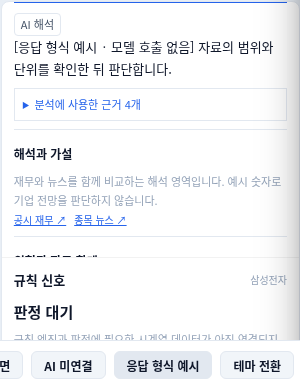
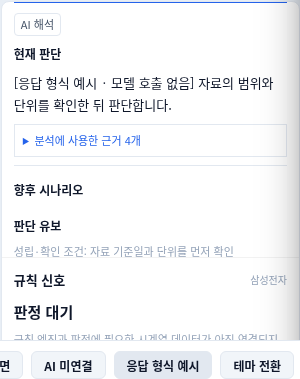
feat(ai): 실행 조건과 무효화 조건을 갖춘 시나리오·대응 계획 추가

Changed region(s): [[0.03, 0.0871, 0.96, 0.4354], [0.03, 0.4644, 0.93, 0.6966], [0.39, 0.6385, 0.78, 0.6966]]

diff --git a/docs/design/data-research-ai/preview.html b/docs/design/data-research-ai/preview.html
@@ -15369,14 +15369,20 @@ function wlAssignGroup(idx, gName) {
   '일·주·월·년 지표를 섞지 않는다. 마지막 봉 미완성·이력 부족·가격 조정 미확인을 고려한다.',
   '계획은 관망·관찰·추가 검토·매매 계획 작성 등의 선택지로 제시한다. 각 선택지에 이유·위험·재검토 조건을 붙인다. 실제 매매 지시나 확정 계획으로 기록하지 않는다.',
   '사용자의 선택·자기평가·감정·행동을 지어내지 않는다. 빠진 거시지표·보유비중·투자일지는 없다고 명시하고 부분 점검임을 밝힌다.',
-  '모든 해석·위험·선택지의 evidenceIds는 실제 받은 자료 ID만 참조한다. 한국어로 간결하게 답한다.'
+  '현황 요약에서 끝내지 말고 현재 판단 → 향후 시나리오 → 대응 계획 → 실행 조건 → 판단 무효화와 재검토 순서로 답한다. 관찰하자 같은 말만으로 대응 계획을 대신하지 않는다.',
+  '가격 방향을 검토할 근거가 충분하면 상승(upside)·횡보(base)·하락(downside) 시나리오를 각각 제시한다. 각 시나리오에 관측 가능한 성립 조건(condition), 전망(outlook), 무효화 조건(invalidation), evidenceIds를 붙인다. 근거가 부족하거나 가격 전망과 무관한 원칙 복기라면 unassessed 하나로 판단 유보 이유와 필요한 자료를 밝힌다.',
+  '대응 계획은 대상(audience: holder 보유자, nonholder 미보유자, both 공통), 구체적인 대응(action), 실행 조건(trigger), 이유(reason), 위험(risk), 판단 무효화 조건(invalidation), 재검토 시점·조건(reviewWhen)을 갖춘다. 실제 보유 여부를 모르면 두 입장을 조건부로 구분하고 비중·평단·손실 한도를 가정하지 않는다.',
+  '목표가·확률·가격선·거래량 임계값을 근거 없이 생성하지 않는다. 받은 자료나 앱의 확정 계산으로 설명할 수 없는 숫자는 만들지 말고, 공시 확인·단위 대조 등 관측 가능한 조건을 제시한다. 실행 조건이 불충분하면 그 이유와 확인 후 재검토할 일을 명시한다. 복기 패턴에서는 다음 기록·원칙 점검 행동을 제시한다.',
+  '모든 시나리오·해석·위험·선택지의 evidenceIds는 실제 받은 자료 ID만 참조한다. 한국어로 간결하게 답한다.'
  ];
  const evidenceIds={type:'array',items:{type:'string'},minItems:1,maxItems:6};
- const supported={type:'object',additionalProperties:false,required:['text','evidenceIds'],properties:{text:{type:'string',maxLength:1600},evidenceIds}};
- const schema={type:'object',additionalProperties:false,required:['summary','interpretations','risks','options','missing','questions'],properties:{
-  summary:{type:'string',maxLength:2000},interpretations:{type:'array',items:supported,maxItems:8},risks:{type:'array',items:supported,maxItems:8},
-  options:{type:'array',minItems:1,maxItems:4,items:{type:'object',additionalProperties:false,required:['title','reason','risk','reviewWhen','evidenceIds'],properties:{title:{type:'string',maxLength:100},reason:{type:'string',maxLength:1000},risk:{type:'string',maxLength:1000},reviewWhen:{type:'string',maxLength:1000},evidenceIds}}},
-  missing:{type:'array',items:{type:'string',maxLength:300},maxItems:30},questions:{type:'array',items:{type:'string',maxLength:500},maxItems:8}
+ const supported={type:'object',additionalProperties:false,required:['text','evidenceIds'],properties:{text:{type:'string',minLength:1,maxLength:1600},evidenceIds}};
+ const schema={type:'object',additionalProperties:false,required:['summary','scenarios','interpretations','risks','options','missing','questions'],properties:{
+  summary:{type:'string',minLength:1,maxLength:2000},
+  scenarios:{type:'array',minItems:1,maxItems:3,items:{type:'object',additionalProperties:false,required:['kind','condition','outlook','invalidation','evidenceIds'],properties:{kind:{type:'string',enum:['upside','base','downside','unassessed']},condition:{type:'string',minLength:1,maxLength:1000},outlook:{type:'string',minLength:1,maxLength:1600},invalidation:{type:'string',minLength:1,maxLength:1000},evidenceIds}}},
+  interpretations:{type:'array',items:supported,maxItems:8},risks:{type:'array',items:supported,maxItems:8},
+  options:{type:'array',minItems:1,maxItems:4,items:{type:'object',additionalProperties:false,required:['title','audience','action','trigger','reason','risk','invalidation','reviewWhen','evidenceIds'],properties:{audience:{type:'string',enum:['holder','nonholder','both']},action:{type:'string',minLength:1,maxLength:1000},trigger:{type:'string',minLength:1,maxLength:1000},invalidation:{type:'string',minLength:1,maxLength:1000},title:{type:'string',minLength:1,maxLength:100},reason:{type:'string',minLength:1,maxLength:1000},risk:{type:'string',minLength:1,maxLength:1000},reviewWhen:{type:'string',minLength:1,maxLength:1000},evidenceIds}}},
+  missing:{type:'array',items:{type:'string',minLength:1,maxLength:300},maxItems:30},questions:{type:'array',items:{type:'string',minLength:1,maxLength:500},maxItems:8}
  }};
  function prompt(bundle,pattern='stock'){
   if(!Object.hasOwn(patterns,pattern))throw Error('분석 패턴을 확인하세요.');
@@ -15384,14 +15390,18 @@ function wlAssignGroup(idx, gName) {
  }
  function validate(result,bundle){
   if(!result||typeof result!=='object'||Array.isArray(result)||Object.keys(result).some(k=>!Object.hasOwn(schema.properties,k)))throw Error('AI 결과 형식 오류');
-  const str=(v,max)=>typeof v==='string'&amp;&amp;v.length<=max;
+  const str=(v,max)=>typeof v==='string'&amp;&amp;v.trim().length>0&amp;&amp;v.length<=max;
   if(!str(result.summary,2000)||!Array.isArray(result.options)||result.options.length<1||result.options.length>4)throw Error('AI 요약·선택지 형식 오류');
   const allowed=new Set(bundle.evidence.filter(e=>e.status==='received').map(e=>e.id));
   function refs(v){return Array.isArray(v)&amp;&amp;v.length>=1&amp;&amp;v.length<=6&amp;&amp;v.every(id=>allowed.has(id));}
+  if(!Array.isArray(result.scenarios)||result.scenarios.length<1||result.scenarios.length>3)throw Error('AI 시나리오 형식 오류');
+  const kinds=result.scenarios.map(x=>x?.kind);
+  if(!(kinds.length===1&amp;&amp;kinds[0]==='unassessed')&amp;&amp;!(kinds.length===3&amp;&amp;new Set(kinds).size===3&amp;&amp;['upside','base','downside'].every(k=>kinds.includes(k))))throw Error('AI 시나리오 구성 오류');
+  for(const x of result.scenarios)if(!x||Object.keys(x).some(k=>!['kind','condition','outlook','invalidation','evidenceIds'].includes(k))||!str(x.condition,1000)||!str(x.outlook,1600)||!str(x.invalidation,1000)||!refs(x.evidenceIds))throw Error('AI 시나리오 근거 오류');
   for(const key of ['interpretations','risks']){
    if(!Array.isArray(result[key])||result[key].length>8||result[key].some(x=>!x||Object.keys(x).some(k=>!['text','evidenceIds'].includes(k))||!str(x.text,1600)||!refs(x.evidenceIds)))throw Error('AI 근거 참조 오류');
   }
-  for(const x of result.options)if(!x||Object.keys(x).some(k=>!['title','reason','risk','reviewWhen','evidenceIds'].includes(k))||!str(x.title,100)||!str(x.reason,1000)||!str(x.risk,1000)||!str(x.reviewWhen,1000)||!refs(x.evidenceIds))throw Error('AI 선택지 근거 오류');
+  for(const x of result.options)if(!x||Object.keys(x).some(k=>!['title','audience','action','trigger','reason','risk','invalidation','reviewWhen','evidenceIds'].includes(k))||!['holder','nonholder','both'].includes(x.audience)||!str(x.action,1000)||!str(x.trigger,1000)||!str(x.invalidation,1000)||!str(x.title,100)||!str(x.reason,1000)||!str(x.risk,1000)||!str(x.reviewWhen,1000)||!refs(x.evidenceIds))throw Error('AI 선택지 근거 오류');
   for(const [key,max,n] of [['missing',300,30],['questions',500,8]])if(!Array.isArray(result[key])||result[key].length>n||result[key].some(x=>!str(x,max)))throw Error('AI 누락·질문 형식 오류');
   return result;
  }
@@ -15447,12 +15457,14 @@ function wlAssignGroup(idx, gName) {
  function renderResult(value){
   const host=document.getElementById('sbAIResult');if(!host)return;host.replaceChildren();
   if(!value){const empty=el('div',undefined,'sb-ai-empty');empty.append(el('strong','근거를 확인하고 해석을 검토합니다.'),el('p','자료 수집 → 기업 리서치 → AI 분석 → 사용자 판단 기록'),el('small','모델을 실행하지 않은 상태입니다. 연결 확인이나 화면 열기만으로 분석을 요청하지 않습니다.'));host.append(empty);return;}
-  const intro=el('section',undefined,'sb-ai-summary');intro.append(badge('AI 해석'),el('p',value.result.summary));host.append(intro);
+  const intro=el('section',undefined,'sb-ai-summary');intro.append(badge('AI 해석'),el('h4','현재 판단'),el('p',value.result.summary));host.append(intro);
   const facts=el('details',undefined,'sb-ai-evidence');facts.append(el('summary','분석에 사용한 근거 '+value.bundle.evidence.length+'개'));
   for(const source of value.bundle.evidence){const row=el('div');row.append(link(source.title+' ↗',source.url),el('span','기준 '+stamp(source.asOf)));facts.append(row);}host.append(facts);
+  const scenarios=el('section',undefined,'sb-ai-result-section');scenarios.append(el('h4','향후 시나리오'));
+  for(const scenario of value.result.scenarios){const article=el('article');article.append(el('strong',({upside:'상승 시나리오',base:'횡보 시나리오',downside:'하락 시나리오',unassessed:'판단 유보'})[scenario.kind]));for(const [label,key]of [['성립·확인 조건','condition'],['전망','outlook'],['판단 무효화 조건','invalidation']])article.append(el('p',label+': '+scenario[key]));refs(article,scenario.evidenceIds,value.bundle);scenarios.append(article);}host.append(scenarios);
   for(const [key,title]of [['interpretations','해석과 가설'],['risks','위험과 자료 한계']]){const section=el('section',undefined,'sb-ai-result-section');section.append(el('h4',title));for(const entry of value.result[key]){section.append(el('p',entry.text));refs(section,entry.evidenceIds,value.bundle);}host.append(section);}
-  const options=el('section',undefined,'sb-ai-result-section');options.append(el('h4','검토할 선택지'),el('p','투자 판단과 매매 결정은 사용자가 합니다.','sb-data-note'));
-  for(const option of value.result.options){const article=el('article');article.append(el('strong',option.title));for(const [label,key]of [['이유','reason'],['위험','risk'],['다시 확인할 조건','reviewWhen']])article.append(el('p',label+': '+option[key]));refs(article,option.evidenceIds,value.bundle);options.append(article);}host.append(options);
+  const options=el('section',undefined,'sb-ai-result-section');options.append(el('h4','앞으로의 대응 계획'),el('p','투자 판단과 매매 결정은 사용자가 합니다.','sb-data-note'));
+  for(const option of value.result.options){const article=el('article');article.append(el('strong',option.title),badge(({holder:'보유자',nonholder:'미보유자',both:'공통'})[option.audience]));for(const [label,key]of [['대응','action'],['실행 조건','trigger'],['이유','reason'],['위험','risk'],['판단 무효화 조건','invalidation'],['다시 확인할 조건','reviewWhen']])article.append(el('p',label+': '+option[key]));refs(article,option.evidenceIds,value.bundle);options.append(article);}host.append(options);
   if(value.result.missing.length)host.append(el('p','미수집·확인 필요: '+value.result.missing.map(id=>policy.labels[id]||id).join(' · '),'sb-ai-missing'));
   for(const question of value.result.questions)host.append(el('p','확인 질문: '+question));
   host.append(button('내 판단 기록하기',journal));
@@ -16321,7 +16333,7 @@ root.StockBookChartRenderer=Object.freeze({mount});
  window.electronAPI={
   aiStatus:async()=>exampleResponse?{ok:true,configured:true,providers:[{id:'claude',connected:true}]}:{ok:true,configured:false,providers:[],message:'AI 분석 연결 준비 전 · 미리보기에서는 연결하지 않습니다.'},
   aiResearch:async opts=>opts.code==='005930'?{ok:true,bundle:bundle(opts.period)}:{ok:false,error:'디자인 예시는 삼성전자에만 준비되어 있습니다.'},
-  aiAnalyze:async opts=>({ok:true,provider:'claude',pattern:opts.pattern,createdAt:'2026-11-07T00:00:00Z',bundle:bundle(opts.period),result:{summary:'[응답 형식 예시 · 모델 호출 없음] 자료의 범위와 단위를 확인한 뒤 판단합니다.',interpretations:[{text:'재무와 뉴스를 함께 비교하는 해석 영역입니다. 예시 숫자로 기업 전망을 판단하지 않습니다.',evidenceIds:['finance','news']}],risks:[{text:'재무 금액 단위와 업종 기준일이 빠져 있습니다. 개인 포트폴리오와 판단 기록도 포함되지 않았습니다.',evidenceIds:['finance','industry']}],options:[{title:'자료를 보완하며 관찰',reason:'단위와 기준일 확인이 먼저입니다.',risk:'누락된 자료로 전체 상황을 설명할 수 없습니다.',reviewWhen:'원문 단위 확인 또는 새 공시 수신 시',evidenceIds:['finance']}],missing:['portfolioStructure','decisionJournal'],questions:['나의 기존 투자 원칙과 일치하는가?']}}),
+  aiAnalyze:async opts=>({ok:true,provider:'claude',pattern:opts.pattern,createdAt:'2026-11-07T00:00:00Z',bundle:bundle(opts.period),result:{summary:'[응답 형식 예시 · 모델 호출 없음] 자료의 범위와 단위를 확인한 뒤 판단합니다.',scenarios:[{kind:'unassessed',condition:'자료 기준일과 단위를 먼저 확인',outlook:'자료가 불충분해 가격 방향 판단을 유보합니다.',invalidation:'필요 자료 수신과 원문 대조 후 다시 분석',evidenceIds:['finance']}],interpretations:[{text:'재무와 뉴스를 함께 비교하는 해석 영역입니다. 예시 숫자로 기업 전망을 판단하지 않습니다.',evidenceIds:['finance','news']}],risks:[{text:'재무 금액 단위와 업종 기준일이 빠져 있습니다. 개인 포트폴리오와 판단 기록도 포함되지 않았습니다.',evidenceIds:['finance','industry']}],options:[{audience:'both',action:'원문 단위와 기준일을 대조하고 대응 계획을 다시 검토',trigger:'새 공시가 수신되거나 원문에서 단위가 확인될 때',invalidation:'기존 수치의 정정 공시 또는 자료 오류 확인 시 판단 폐기',title:'자료를 보완하며 관찰',reason:'단위와 기준일 확인이 먼저입니다.',risk:'누락된 자료로 전체 상황을 설명할 수 없습니다.',reviewWhen:'원문 단위 확인 또는 새 공시 수신 시',evidenceIds:['finance']}],missing:['portfolioStructure','decisionJournal'],questions:['나의 기존 투자 원칙과 일치하는가?']}}),
   aiCancel:async()=>({ok:true,requested:true,confirmed:true}),getChartSnapshot:async code=>code==='005930'?snapshot:{ok:false},
   fetchQuote:async()=>null,fetchMarketTickers:async()=>null,fetchNaverStocks:async()=>({ok:false}),fetchNews:async()=>({ok:true,items:[]}),
   loadState:async()=>null,saveState:async()=>{},checkApiKey:async()=>false,loadApiKey:async()=>null,setChartContext:async()=>({ok:true}),openChartWindow:async()=>({ok:false}),onRealtimePrice:()=>{},onWsStatus:()=>{}

diff --git a/src/ai/policy.js b/src/ai/policy.js
@@ -18,14 +18,20 @@
   '일·주·월·년 지표를 섞지 않는다. 마지막 봉 미완성·이력 부족·가격 조정 미확인을 고려한다.',
   '계획은 관망·관찰·추가 검토·매매 계획 작성 등의 선택지로 제시한다. 각 선택지에 이유·위험·재검토 조건을 붙인다. 실제 매매 지시나 확정 계획으로 기록하지 않는다.',
   '사용자의 선택·자기평가·감정·행동을 지어내지 않는다. 빠진 거시지표·보유비중·투자일지는 없다고 명시하고 부분 점검임을 밝힌다.',
-  '모든 해석·위험·선택지의 evidenceIds는 실제 받은 자료 ID만 참조한다. 한국어로 간결하게 답한다.'
+  '현황 요약에서 끝내지 말고 현재 판단 → 향후 시나리오 → 대응 계획 → 실행 조건 → 판단 무효화와 재검토 순서로 답한다. 관찰하자 같은 말만으로 대응 계획을 대신하지 않는다.',
+  '가격 방향을 검토할 근거가 충분하면 상승(upside)·횡보(base)·하락(downside) 시나리오를 각각 제시한다. 각 시나리오에 관측 가능한 성립 조건(condition), 전망(outlook), 무효화 조건(invalidation), evidenceIds를 붙인다. 근거가 부족하거나 가격 전망과 무관한 원칙 복기라면 unassessed 하나로 판단 유보 이유와 필요한 자료를 밝힌다.',
+  '대응 계획은 대상(audience: holder 보유자, nonholder 미보유자, both 공통), 구체적인 대응(action), 실행 조건(trigger), 이유(reason), 위험(risk), 판단 무효화 조건(invalidation), 재검토 시점·조건(reviewWhen)을 갖춘다. 실제 보유 여부를 모르면 두 입장을 조건부로 구분하고 비중·평단·손실 한도를 가정하지 않는다.',
+  '목표가·확률·가격선·거래량 임계값을 근거 없이 생성하지 않는다. 받은 자료나 앱의 확정 계산으로 설명할 수 없는 숫자는 만들지 말고, 공시 확인·단위 대조 등 관측 가능한 조건을 제시한다. 실행 조건이 불충분하면 그 이유와 확인 후 재검토할 일을 명시한다. 복기 패턴에서는 다음 기록·원칙 점검 행동을 제시한다.',
+  '모든 시나리오·해석·위험·선택지의 evidenceIds는 실제 받은 자료 ID만 참조한다. 한국어로 간결하게 답한다.'
  ];
  const evidenceIds={type:'array',items:{type:'string'},minItems:1,maxItems:6};
- const supported={type:'object',additionalProperties:false,required:['text','evidenceIds'],properties:{text:{type:'string',maxLength:1600},evidenceIds}};
- const schema={type:'object',additionalProperties:false,required:['summary','interpretations','risks','options','missing','questions'],properties:{
-  summary:{type:'string',maxLength:2000},interpretations:{type:'array',items:supported,maxItems:8},risks:{type:'array',items:supported,maxItems:8},
-  options:{type:'array',minItems:1,maxItems:4,items:{type:'object',additionalProperties:false,required:['title','reason','risk','reviewWhen','evidenceIds'],properties:{title:{type:'string',maxLength:100},reason:{type:'string',maxLength:1000},risk:{type:'string',maxLength:1000},reviewWhen:{type:'string',maxLength:1000},evidenceIds}}},
-  missing:{type:'array',items:{type:'string',maxLength:300},maxItems:30},questions:{type:'array',items:{type:'string',maxLength:500},maxItems:8}
+ const supported={type:'object',additionalProperties:false,required:['text','evidenceIds'],properties:{text:{type:'string',minLength:1,maxLength:1600},evidenceIds}};
+ const schema={type:'object',additionalProperties:false,required:['summary','scenarios','interpretations','risks','options','missing','questions'],properties:{
+  summary:{type:'string',minLength:1,maxLength:2000},
+  scenarios:{type:'array',minItems:1,maxItems:3,items:{type:'object',additionalProperties:false,required:['kind','condition','outlook','invalidation','evidenceIds'],properties:{kind:{type:'string',enum:['upside','base','downside','unassessed']},condition:{type:'string',minLength:1,maxLength:1000},outlook:{type:'string',minLength:1,maxLength:1600},invalidation:{type:'string',minLength:1,maxLength:1000},evidenceIds}}},
+  interpretations:{type:'array',items:supported,maxItems:8},risks:{type:'array',items:supported,maxItems:8},
+  options:{type:'array',minItems:1,maxItems:4,items:{type:'object',additionalProperties:false,required:['title','audience','action','trigger','reason','risk','invalidation','reviewWhen','evidenceIds'],properties:{audience:{type:'string',enum:['holder','nonholder','both']},action:{type:'string',minLength:1,maxLength:1000},trigger:{type:'string',minLength:1,maxLength:1000},invalidation:{type:'string',minLength:1,maxLength:1000},title:{type:'string',minLength:1,maxLength:100},reason:{type:'string',minLength:1,maxLength:1000},risk:{type:'string',minLength:1,maxLength:1000},reviewWhen:{type:'string',minLength:1,maxLength:1000},evidenceIds}}},
+  missing:{type:'array',items:{type:'string',minLength:1,maxLength:300},maxItems:30},questions:{type:'array',items:{type:'string',minLength:1,maxLength:500},maxItems:8}
  }};
  function prompt(bundle,pattern='stock'){
   if(!Object.hasOwn(patterns,pattern))throw Error('분석 패턴을 확인하세요.');
@@ -33,14 +39,18 @@
  }
  function validate(result,bundle){
   if(!result||typeof result!=='object'||Array.isArray(result)||Object.keys(result).some(k=>!Object.hasOwn(schema.properties,k)))throw Error('AI 결과 형식 오류');
-  const str=(v,max)=>typeof v==='string'&&v.length<=max;
+  const str=(v,max)=>typeof v==='string'&&v.trim().length>0&&v.length<=max;
   if(!str(result.summary,2000)||!Array.isArray(result.options)||result.options.length<1||result.options.length>4)throw Error('AI 요약·선택지 형식 오류');
   const allowed=new Set(bundle.evidence.filter(e=>e.status==='received').map(e=>e.id));
   function refs(v){return Array.isArray(v)&&v.length>=1&&v.length<=6&&v.every(id=>allowed.has(id));}
+  if(!Array.isArray(result.scenarios)||result.scenarios.length<1||result.scenarios.length>3)throw Error('AI 시나리오 형식 오류');
+  const kinds=result.scenarios.map(x=>x?.kind);
+  if(!(kinds.length===1&&kinds[0]==='unassessed')&&!(kinds.length===3&&new Set(kinds).size===3&&['upside','base','downside'].every(k=>kinds.includes(k))))throw Error('AI 시나리오 구성 오류');
+  for(const x of result.scenarios)if(!x||Object.keys(x).some(k=>!['kind','condition','outlook','invalidation','evidenceIds'].includes(k))||!str(x.condition,1000)||!str(x.outlook,1600)||!str(x.invalidation,1000)||!refs(x.evidenceIds))throw Error('AI 시나리오 근거 오류');
   for(const key of ['interpretations','risks']){
    if(!Array.isArray(result[key])||result[key].length>8||result[key].some(x=>!x||Object.keys(x).some(k=>!['text','evidenceIds'].includes(k))||!str(x.text,1600)||!refs(x.evidenceIds)))throw Error('AI 근거 참조 오류');
   }
-  for(const x of result.options)if(!x||Object.keys(x).some(k=>!['title','reason','risk','reviewWhen','evidenceIds'].includes(k))||!str(x.title,100)||!str(x.reason,1000)||!str(x.risk,1000)||!str(x.reviewWhen,1000)||!refs(x.evidenceIds))throw Error('AI 선택지 근거 오류');
+  for(const x of result.options)if(!x||Object.keys(x).some(k=>!['title','audience','action','trigger','reason','risk','invalidation','reviewWhen','evidenceIds'].includes(k))||!['holder','nonholder','both'].includes(x.audience)||!str(x.action,1000)||!str(x.trigger,1000)||!str(x.invalidation,1000)||!str(x.title,100)||!str(x.reason,1000)||!str(x.risk,1000)||!str(x.reviewWhen,1000)||!refs(x.evidenceIds))throw Error('AI 선택지 근거 오류');
   for(const [key,max,n] of [['missing',300,30],['questions',500,8]])if(!Array.isArray(result[key])||result[key].length>n||result[key].some(x=>!str(x,max)))throw Error('AI 누락·질문 형식 오류');
   return result;
  }

diff --git a/src/ai/client.js b/src/ai/client.js
@@ -45,12 +45,14 @@
  function renderResult(value){
   const host=document.getElementById('sbAIResult');if(!host)return;host.replaceChildren();
   if(!value){const empty=el('div',undefined,'sb-ai-empty');empty.append(el('strong','근거를 확인하고 해석을 검토합니다.'),el('p','자료 수집 → 기업 리서치 → AI 분석 → 사용자 판단 기록'),el('small','모델을 실행하지 않은 상태입니다. 연결 확인이나 화면 열기만으로 분석을 요청하지 않습니다.'));host.append(empty);return;}
-  const intro=el('section',undefined,'sb-ai-summary');intro.append(badge('AI 해석'),el('p',value.result.summary));host.append(intro);
+  const intro=el('section',undefined,'sb-ai-summary');intro.append(badge('AI 해석'),el('h4','현재 판단'),el('p',value.result.summary));host.append(intro);
   const facts=el('details',undefined,'sb-ai-evidence');facts.append(el('summary','분석에 사용한 근거 '+value.bundle.evidence.length+'개'));
   for(const source of value.bundle.evidence){const row=el('div');row.append(link(source.title+' ↗',source.url),el('span','기준 '+stamp(source.asOf)));facts.append(row);}host.append(facts);
+  const scenarios=el('section',undefined,'sb-ai-result-section');scenarios.append(el('h4','향후 시나리오'));
+  for(const scenario of value.result.scenarios){const article=el('article');article.append(el('strong',({upside:'상승 시나리오',base:'횡보 시나리오',downside:'하락 시나리오',unassessed:'판단 유보'})[scenario.kind]));for(const [label,key]of [['성립·확인 조건','condition'],['전망','outlook'],['판단 무효화 조건','invalidation']])article.append(el('p',label+': '+scenario[key]));refs(article,scenario.evidenceIds,value.bundle);scenarios.append(article);}host.append(scenarios);
   for(const [key,title]of [['interpretations','해석과 가설'],['risks','위험과 자료 한계']]){const section=el('section',undefined,'sb-ai-result-section');section.append(el('h4',title));for(const entry of value.result[key]){section.append(el('p',entry.text));refs(section,entry.evidenceIds,value.bundle);}host.append(section);}
-  const options=el('section',undefined,'sb-ai-result-section');options.append(el('h4','검토할 선택지'),el('p','투자 판단과 매매 결정은 사용자가 합니다.','sb-data-note'));
-  for(const option of value.result.options){const article=el('article');article.append(el('strong',option.title));for(const [label,key]of [['이유','reason'],['위험','risk'],['다시 확인할 조건','reviewWhen']])article.append(el('p',label+': '+option[key]));refs(article,option.evidenceIds,value.bundle);options.append(article);}host.append(options);
+  const options=el('section',undefined,'sb-ai-result-section');options.append(el('h4','앞으로의 대응 계획'),el('p','투자 판단과 매매 결정은 사용자가 합니다.','sb-data-note'));
+  for(const option of value.result.options){const article=el('article');article.append(el('strong',option.title),badge(({holder:'보유자',nonholder:'미보유자',both:'공통'})[option.audience]));for(const [label,key]of [['대응','action'],['실행 조건','trigger'],['이유','reason'],['위험','risk'],['판단 무효화 조건','invalidation'],['다시 확인할 조건','reviewWhen']])article.append(el('p',label+': '+option[key]));refs(article,option.evidenceIds,value.bundle);options.append(article);}host.append(options);
   if(value.result.missing.length)host.append(el('p','미수집·확인 필요: '+value.result.missing.map(id=>policy.labels[id]||id).join(' · '),'sb-ai-missing'));
   for(const question of value.result.questions)host.append(el('p','확인 질문: '+question));
   host.append(button('내 판단 기록하기',journal));

diff --git a/docs/design/data-research-ai/README.md b/docs/design/data-research-ai/README.md
@@ -9,7 +9,7 @@
 - 왼쪽 출처 분류로 기업정보·업종·재무·시세·뉴스를 골라 읽는다. 각 자료에 원문 링크·기준일·수집 시각·범위와 단위를 표시한다. 수신 여부와 기준일/단위/마지막 봉 확인 필요를 구분한다. 수신을 최신성·완전성 검증 완료로 표시하지 않는다.
 - 리서치의 **이 종목 AI 검토**가 선택 종목과 수집 기간을 전달한다. 모델을 자동 실행하지 않는다. 기간이 달라지면 수집 범위 차이를 표시한다.
 - 종합 화면 AI는 자료 상태 → 주기·모델 선호·수집 범위 → 명시적 분석 요청 순서로 배치한다. HOME 연결 영역·버튼·설정 안내를 제거했다. 분석 가능 여부만 일반 상태로 표시하며, 연결이 준비되지 않았을 때는 실행하지 않는다.
-- AI 응답은 해석 요약, 사용 근거, 해석/가설, 위험과 자료 한계, 선택지·이유·위험·재검토 조건, 사용자 질문, 판단 기록 진입 순서다. AI 문장을 사용자 투자일지에 자동 기입하지 않는다.
+- AI 응답은 현재 판단, 사용 근거, 향후 시나리오, 해석/가설, 위험과 자료 한계, 앞으로의 대응 계획, 사용자 질문, 판단 기록 진입 순서다. 시나리오는 상승·횡보·하락 각각의 성립 조건·전망·무효화 조건을 갖춘다. 근거 부족 또는 가격 전망과 무관한 원칙 복기에서는 판단 유보 하나로 범위와 필요한 자료를 명시한다. 대응 계획은 보유자·미보유자·공통 대상을 구분하고 행동·실행 조건·이유·위험·무효화·재검토 조건을 필수로 받는다. AI 문장을 사용자 투자일지에 자동 기입하지 않는다.
 - 짧은 규칙 신호 영역보다 AI 검토에 내부 공간을 더 배분한다. 종합 화면의 차트·매매 배치와 높이 조절, 차트 지표·계산식은 수정하지 않았다.
 - 기존 디자인 토큰, 라이트/다크, 얇은 경계와 표 중심 구성을 사용한다. 큰 요약 카드나 가상의 신뢰도 점수를 추가하지 않는다.
 
@@ -37,9 +37,15 @@
 
 ## 검증
 
-- `npm test`: 정적 검사, 단위·브라우저 109개, 스모크 통과. 검사 스크립트·워크플로·버전은 변경하지 않았다.
+- `npm test`: 정적 검사, 단위·브라우저 110개, 스모크 통과. 검사 스크립트·워크플로·버전은 변경하지 않았다.
 - 추가 검사는 기준일/단위 누락, 0 값 보존, 출처 필터, 1600·1024px 가로 넘침, AI 미연결 실행 방지, 선택 종목·기간 전달, 범위 변경 안내, 자동 모델 호출 없음, 결과와 사용자 기록 진입을 확인한다.
 - 독립 HTML을 로컬 HTTP로 열어 Chromium에서 라이트/다크, 1600×1000·1024×768, AI 미연결 및 가상 응답 화면 확인. 페이지 오류 0, 자동 외부 요청 0, 1024px 리서치 본문 가로 넘침 없음.
 - 브라우저 자동화는 가상 IPC다. Windows/NSIS·실제 HOME·실제 모델·운영 데이터 계약의 검증을 대체하지 않는다. 병합·배포 미실행.
 
 `node --test test/design-preview.browser.test.cjs`의 별도 회귀 검사 1개에서 412×915 및 모바일 데스크톱 보기와 유사한 980×2120 뷰포트를 확인했다. 내장 차트는 가상 IPC 준비 후 다시 표시하며, 다운로드한 한 파일 안의 스냅샷으로 렌더링한다. Android `content://` 열기는 이 환경에서 직접 실행하지 못했으며 Chromium 로컬 HTTP로 검증했다. 앱 본체의 차트/매매 배치는 이번 미리보기 수정에 포함하지 않는다.
+
+## 앞으로의 대응까지 포함하는 분석 계약
+
+`src/ai/policy.js`의 응답 스키마와 검증기에 `scenarios`, 대응 계획의 `audience/action/trigger/invalidation`을 추가했다. 현재 요약·선택지만 있는 이전 응답은 새 계약에 맞지 않아 검증에서 거부된다. 모든 시나리오/계획은 실제 수신한 근거 ID를 참조해야 하고 공백인 실행·무효화 조건은 허용하지 않는다. 세 방향은 중복 없이 모두 받거나 명시적 판단 유보 하나로 받는다.
+
+모델 프롬프트에는 근거 없는 목표가·확률·가격선 생성 금지, 모르는 보유 여부·평단·비중 가정 금지, 원칙 복기에서 다음 행동 제시를 명시했다. 구조 검증은 문장의 경제적 타당성이나 예측 정확도를 보장하지 않는다. 실제 데이터와 모델로 조건의 타당성을 검수하는 작업은 남아 있다. 미리보기는 자료 부족에 따른 판단 유보와 구체적인 자료 보완 계획을 보여 주는 가상 응답이다.

diff --git a/docs/design/data-research-ai/PR_DRAFT.md b/docs/design/data-research-ai/PR_DRAFT.md
@@ -12,8 +12,10 @@ HOME 필수 전제를 없애기 위해 HOME 연결 영역·버튼·설정 설명
 
 의존성: `codex/stock-ai-home`의 `61b074ae0a5005c4bb5a6ed0124f7d819bd74774`를 기반으로 합니다. main 대상 비교에는 선행 업종·AI·리서치 변경도 포함되므로 해당 작업의 검토/병합 순서를 확인해야 합니다. #97 작업은 합치지 않았습니다.
 
-검증: `npm test` 정적 검사·단위/브라우저 109개·스모크 통과. 독립 미리보기에서 페이지 오류 0, 자동 외부 요청 0, 1024px 가로 넘침 없음. 검사 스크립트·워크플로·버전 변경 없음.
+검증: `npm test` 정적 검사·단위/브라우저 110개·스모크 통과. 독립 미리보기에서 페이지 오류 0, 자동 외부 요청 0, 1024px 가로 넘침 없음. 검사 스크립트·워크플로·버전 변경 없음.
 
 미검증: 사용자 최신 HOME 소스의 실제 바인딩·모델 호출, Windows/NSIS 및 운영 데이터 제공 계약. 병합·배포 승인은 별도입니다.
 
 휴대폰에서 PC 미리보기 패널이 길게 늘어나는 문제를 미리보기 프레임의 비율 고정으로 수정했습니다. 가상 IPC 준비 전에 실패했던 차트도 준비 후 다시 표시합니다. `node --test test/design-preview.browser.test.cjs` 별도 검사 1개로 412×915·980×2120의 비율 유지 및 내장 차트 렌더링을 확인하며, Android content:// 실기는 미실행입니다.
+
+분석이 현황 요약에서 끝나지 않도록 상승/횡보/하락 시나리오(또는 근거 부족에 따른 명시적 판단 유보)와 대상별 대응·실행 조건·무효화·재검토를 응답 계약과 화면에 추가했습니다. 누락·공백·미수신 출처·중복 시나리오는 검증에서 거부합니다. 기존 요약/선택지 형식의 응답을 생성하는 어댑터는 새 스키마에 맞춰야 합니다. 실제 모델의 분석 품질·전망 정확도 검증은 미실행입니다.
